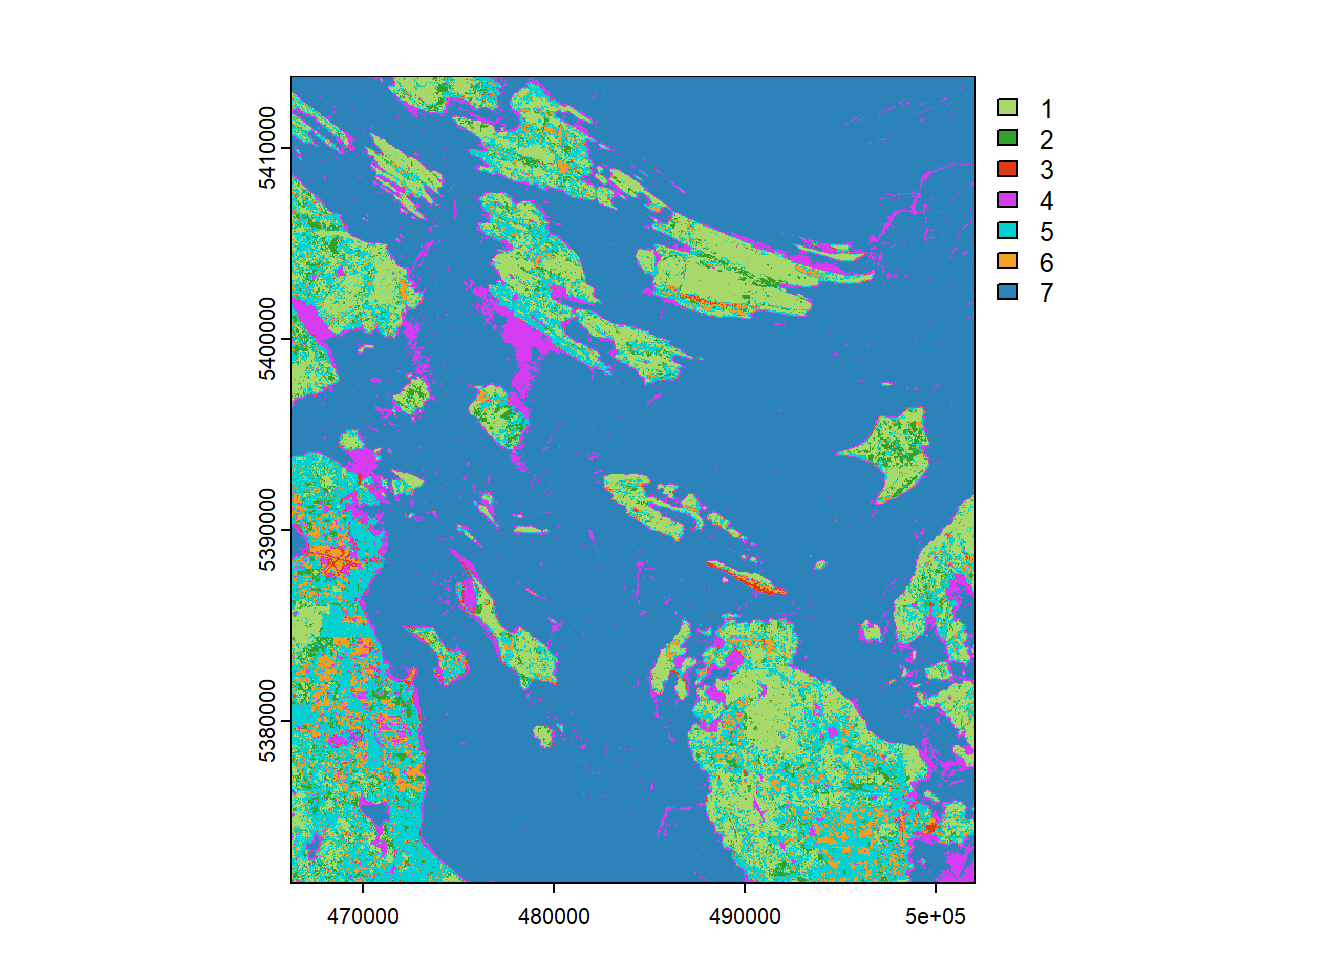
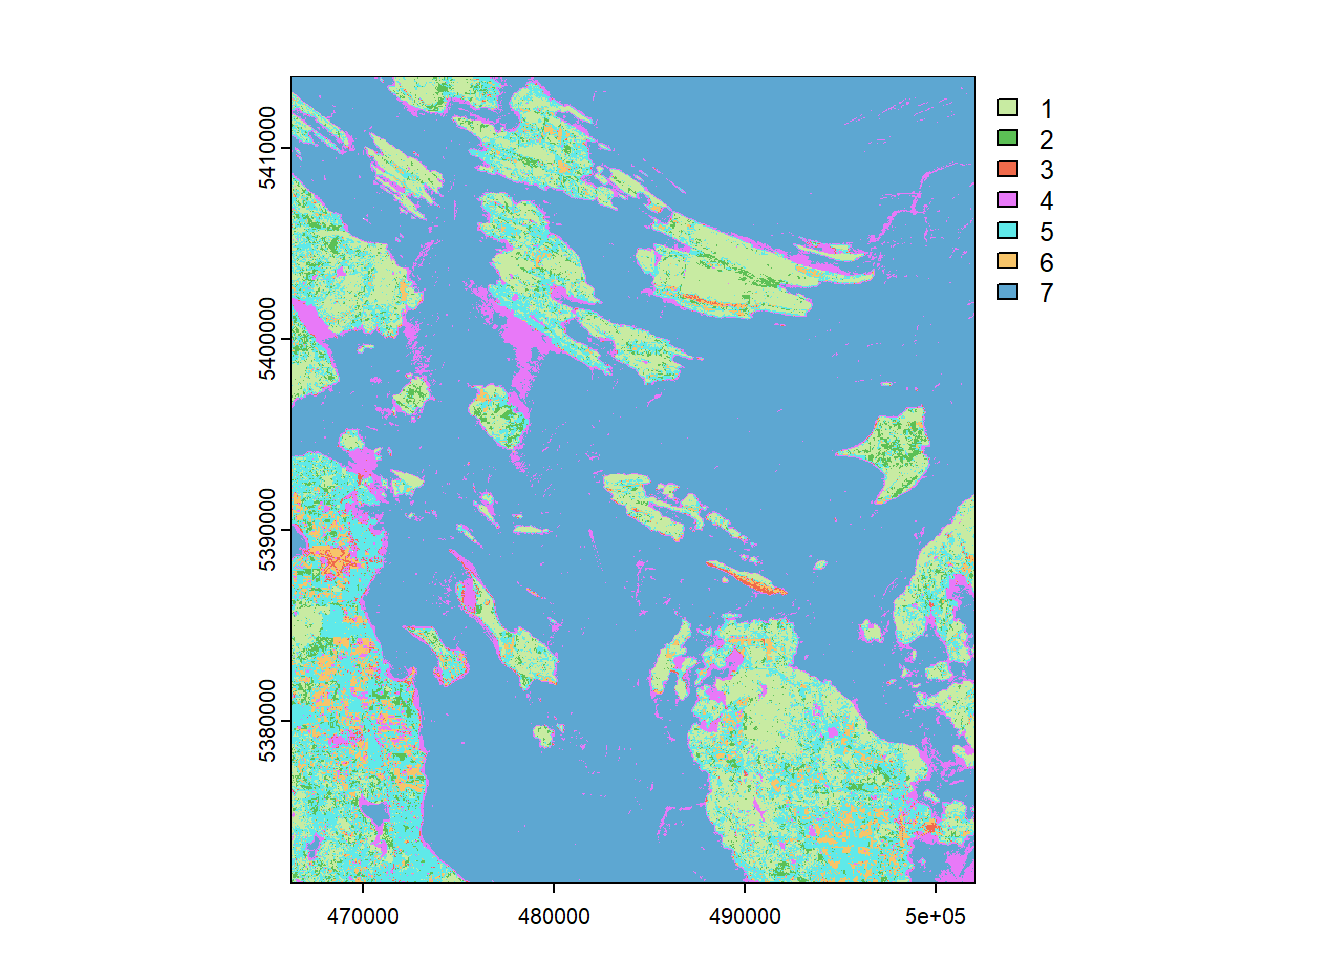
push

diff --git a/Remote Sensing/Supervised Image Classification/Lab5_classification-assign.html b/Remote Sensing/Supervised Image Classification/Lab5_classification-assign.html
@@ -265,18 +265,18 @@ max values  :    1,     1,   1,   1,     1,     1 </code></pre>
 <p>4.4 Extract Training Data for Classification</p>
 <p>Once the training polygons were split, the corresponding pixel values from the Landsat image were extracted for each class in the training and validation sets, to allow the classifier to learn the spectral characteristics of each land cover class.</p>
 <div class="cell">
-<div class="sourceCode cell-code" id="cb11"><pre class="sourceCode r code-with-copy"><code class="sourceCode r"><span id="cb11-1"><a href="#cb11-1" aria-hidden="true" tabindex="-1"></a>poly_set_vals <span class="ot">&lt;-</span> terra<span class="sc">::</span><span class="fu">extract</span>(landsat_image, <span class="fu">vect</span>(poly_set))</span>
+<div class="sourceCode cell-code" id="cb11"><pre class="sourceCode r code-with-copy"><code class="sourceCode r"><span id="cb11-1"><a href="#cb11-1" aria-hidden="true" tabindex="-1"></a>polygon_pixels <span class="ot">&lt;-</span> terra<span class="sc">::</span><span class="fu">extract</span>(landsat_image, <span class="fu">vect</span>(poly_set))</span>
 <span id="cb11-2"><a href="#cb11-2" aria-hidden="true" tabindex="-1"></a></span>
 <span id="cb11-3"><a href="#cb11-3" aria-hidden="true" tabindex="-1"></a><span class="co"># We need to perform an inner_join to retrieve lc_class</span></span>
-<span id="cb11-4"><a href="#cb11-4" aria-hidden="true" tabindex="-1"></a>poly_set_vals <span class="ot">&lt;-</span> <span class="fu">inner_join</span>(poly_set, poly_set_vals) <span class="sc">%&gt;%</span></span>
+<span id="cb11-4"><a href="#cb11-4" aria-hidden="true" tabindex="-1"></a>polygon_pixels <span class="ot">&lt;-</span> <span class="fu">inner_join</span>(poly_set, polygon_pixels) <span class="sc">%&gt;%</span></span>
 <span id="cb11-5"><a href="#cb11-5" aria-hidden="true" tabindex="-1"></a>  <span class="fu">st_drop_geometry</span>()</span>
 <span id="cb11-6"><a href="#cb11-6" aria-hidden="true" tabindex="-1"></a></span>
 <span id="cb11-7"><a href="#cb11-7" aria-hidden="true" tabindex="-1"></a><span class="co"># Calculate the number of pixels per land cover class  </span></span>
-<span id="cb11-8"><a href="#cb11-8" aria-hidden="true" tabindex="-1"></a>poly_stats <span class="ot">&lt;-</span> poly_set_vals <span class="sc">%&gt;%</span> </span>
+<span id="cb11-8"><a href="#cb11-8" aria-hidden="true" tabindex="-1"></a>pixel_statistics <span class="ot">&lt;-</span> polygon_pixels <span class="sc">%&gt;%</span> </span>
 <span id="cb11-9"><a href="#cb11-9" aria-hidden="true" tabindex="-1"></a>  <span class="fu">group_by</span>(set, lc_class) <span class="sc">%&gt;%</span> </span>
 <span id="cb11-10"><a href="#cb11-10" aria-hidden="true" tabindex="-1"></a>  <span class="fu">summarize</span>(<span class="at">n_px =</span> <span class="fu">n</span>())  </span>
 <span id="cb11-11"><a href="#cb11-11" aria-hidden="true" tabindex="-1"></a><span class="co"># Display the class statistics </span></span>
-<span id="cb11-12"><a href="#cb11-12" aria-hidden="true" tabindex="-1"></a>poly_stats </span></code><button title="Copy to Clipboard" class="code-copy-button"><i class="bi"></i></button></pre></div>
+<span id="cb11-12"><a href="#cb11-12" aria-hidden="true" tabindex="-1"></a>pixel_statistics </span></code><button title="Copy to Clipboard" class="code-copy-button"><i class="bi"></i></button></pre></div>
 <div class="cell-output cell-output-stdout">
 <pre><code># A tibble: 14 × 3
 # Groups:   set [2]
@@ -300,11 +300,11 @@ max values  :    1,     1,   1,   1,     1,     1 </code></pre>
 </div>
 <div class="cell">
 <div class="sourceCode cell-code" id="cb13"><pre class="sourceCode r code-with-copy"><code class="sourceCode r"><span id="cb13-1"><a href="#cb13-1" aria-hidden="true" tabindex="-1"></a><span class="co"># Calculate the number of pixels per land cover class  </span></span>
-<span id="cb13-2"><a href="#cb13-2" aria-hidden="true" tabindex="-1"></a>poly_stats <span class="ot">&lt;-</span> poly_set_vals <span class="sc">%&gt;%</span> </span>
+<span id="cb13-2"><a href="#cb13-2" aria-hidden="true" tabindex="-1"></a>pixel_statistics <span class="ot">&lt;-</span> polygon_pixels <span class="sc">%&gt;%</span> </span>
 <span id="cb13-3"><a href="#cb13-3" aria-hidden="true" tabindex="-1"></a>  <span class="fu">group_by</span>(set, lc_class) <span class="sc">%&gt;%</span> </span>
 <span id="cb13-4"><a href="#cb13-4" aria-hidden="true" tabindex="-1"></a>  <span class="fu">summarize</span>(<span class="at">n_px =</span> <span class="fu">n</span>())  </span>
 <span id="cb13-5"><a href="#cb13-5" aria-hidden="true" tabindex="-1"></a><span class="co"># Display the class statistics </span></span>
-<span id="cb13-6"><a href="#cb13-6" aria-hidden="true" tabindex="-1"></a>poly_stats </span></code><button title="Copy to Clipboard" class="code-copy-button"><i class="bi"></i></button></pre></div>
+<span id="cb13-6"><a href="#cb13-6" aria-hidden="true" tabindex="-1"></a>pixel_statistics </span></code><button title="Copy to Clipboard" class="code-copy-button"><i class="bi"></i></button></pre></div>
 <div class="cell-output cell-output-stdout">
 <pre><code># A tibble: 14 × 3
 # Groups:   set [2]
@@ -329,10 +329,10 @@ max values  :    1,     1,   1,   1,     1,     1 </code></pre>
 <p>For ease of analysis, the dataset was reshaped from a wide format (where each band is a separate column) to a long format (where each band is a row with the corresponding reflectance value).</p>
 <div class="cell">
 <div class="sourceCode cell-code" id="cb15"><pre class="sourceCode r code-with-copy"><code class="sourceCode r"><span id="cb15-1"><a href="#cb15-1" aria-hidden="true" tabindex="-1"></a><span class="co"># Reshape the data from wide to long format </span></span>
-<span id="cb15-2"><a href="#cb15-2" aria-hidden="true" tabindex="-1"></a>poly_set_vals_long <span class="ot">&lt;-</span> <span class="fu">pivot_longer</span>(poly_set_vals, blue<span class="sc">:</span>swir2,</span>
+<span id="cb15-2"><a href="#cb15-2" aria-hidden="true" tabindex="-1"></a>polygon_pixels_long <span class="ot">&lt;-</span> <span class="fu">pivot_longer</span>(polygon_pixels, blue<span class="sc">:</span>swir2,</span>
 <span id="cb15-3"><a href="#cb15-3" aria-hidden="true" tabindex="-1"></a>                                   <span class="at">names_to =</span> <span class="st">"band"</span>, <span class="at">values_to =</span> <span class="st">"reflectance"</span>)  </span>
 <span id="cb15-4"><a href="#cb15-4" aria-hidden="true" tabindex="-1"></a><span class="co"># Display the reshaped data </span></span>
-<span id="cb15-5"><a href="#cb15-5" aria-hidden="true" tabindex="-1"></a><span class="fu">head</span>(poly_set_vals_long) </span></code><button title="Copy to Clipboard" class="code-copy-button"><i class="bi"></i></button></pre></div>
+<span id="cb15-5"><a href="#cb15-5" aria-hidden="true" tabindex="-1"></a><span class="fu">head</span>(polygon_pixels_long) </span></code><button title="Copy to Clipboard" class="code-copy-button"><i class="bi"></i></button></pre></div>
 <div class="cell-output cell-output-stdout">
 <pre><code># A tibble: 6 × 5
 # Groups:   lc_class [1]
@@ -349,7 +349,7 @@ max values  :    1,     1,   1,   1,     1,     1 </code></pre>
 <p>The mean, 5th quantile, and 95th quantile of reflectance for each band and land cover class was then calculated to summarize and analyze the spectral characteristics of the different land cover types.</p>
 <div class="cell">
 <div class="sourceCode cell-code" id="cb17"><pre class="sourceCode r code-with-copy"><code class="sourceCode r"><span id="cb17-1"><a href="#cb17-1" aria-hidden="true" tabindex="-1"></a><span class="co"># Calculate spectral signatures for each land cover class and band </span></span>
-<span id="cb17-2"><a href="#cb17-2" aria-hidden="true" tabindex="-1"></a>spectral_sign <span class="ot">&lt;-</span> poly_set_vals_long <span class="sc">%&gt;%</span> </span>
+<span id="cb17-2"><a href="#cb17-2" aria-hidden="true" tabindex="-1"></a>spectral_sign <span class="ot">&lt;-</span> polygon_pixels_long <span class="sc">%&gt;%</span> </span>
 <span id="cb17-3"><a href="#cb17-3" aria-hidden="true" tabindex="-1"></a>  <span class="fu">group_by</span>(lc_class, band) <span class="sc">%&gt;%</span>  </span>
 <span id="cb17-4"><a href="#cb17-4" aria-hidden="true" tabindex="-1"></a>  <span class="fu">summarize</span>(<span class="at">r_mean =</span> <span class="fu">mean</span>(reflectance, <span class="at">na.rm =</span> <span class="cn">TRUE</span>),</span>
 <span id="cb17-5"><a href="#cb17-5" aria-hidden="true" tabindex="-1"></a>            <span class="at">r_q05 =</span> <span class="fu">quantile</span>(reflectance, <span class="fl">0.05</span>, <span class="at">na.rm =</span> <span class="cn">TRUE</span>),</span>
@@ -413,7 +413,7 @@ max values  :    1,     1,   1,   1,     1,     1 </code></pre>
 <span id="cb20-11"><a href="#cb20-11" aria-hidden="true" tabindex="-1"></a><span class="co"># Write the classified map to a TIFF file </span></span>
 <span id="cb20-12"><a href="#cb20-12" aria-hidden="true" tabindex="-1"></a><span class="co">#terra::writeRaster(classified_map, filename = "outputs/classified_map.tif", overwrite = TRUE)  </span></span>
 <span id="cb20-13"><a href="#cb20-13" aria-hidden="true" tabindex="-1"></a><span class="co"># Plot the classified map </span></span>
-<span id="cb20-14"><a href="#cb20-14" aria-hidden="true" tabindex="-1"></a>terra<span class="sc">::</span><span class="fu">plot</span>(classified_map, <span class="at">col =</span> <span class="fu">c</span>(<span class="st">'#A6D96A'</span>,<span class="st">'#33A02C'</span>,<span class="st">'#DE3B13'</span>,<span class="st">'#D63CF1'</span>,<span class="st">'#00D2D2'</span>,<span class="st">'#F1A026'</span>,<span class="st">'#2B83BA'</span>)) </span></code><button title="Copy to Clipboard" class="code-copy-button"><i class="bi"></i></button></pre></div>
+<span id="cb20-14"><a href="#cb20-14" aria-hidden="true" tabindex="-1"></a>terra<span class="sc">::</span><span class="fu">plot</span>(classified_map, <span class="at">col =</span> <span class="fu">c</span>(<span class="st">'#C8EBA2'</span>,<span class="st">'#5CC055'</span>,<span class="st">'#F06A4B'</span>,<span class="st">'#E879F8'</span>,<span class="st">'#5FE9E9'</span>,<span class="st">'#F7C469'</span>,<span class="st">'#5DA7D2'</span>)) </span></code><button title="Copy to Clipboard" class="code-copy-button"><i class="bi"></i></button></pre></div>
 <div class="cell-output-display">
 <div>
 <figure class="figure">

diff --git a/Posts/Diverse Knowledge Systems.html b/Posts/Diverse Knowledge Systems.html
@@ -75,8 +75,9 @@ ul.task-list li input[type="checkbox"] {
 </header>
 
 
-<section id="beyond-binaries-why-diverse-knowledge-systems-matter-in-environmental-management" class="level5" style="text-align: justify">
-<h5 class="anchored" data-anchor-id="beyond-binaries-why-diverse-knowledge-systems-matter-in-environmental-management">Beyond Binaries: Why Diverse Knowledge Systems matter in Environmental Management</h5>
+<section id="beyond-binaries-why-diverse-knowledge-systems-matter-in-environmental-management" class="level5">
+<h5 class="anchored" data-anchor-id="beyond-binaries-why-diverse-knowledge-systems-matter-in-environmental-management">Beyond Binaries: Why Diverse Knowledge Systems Matter in Environmental Management</h5>
+<div style="text-align: justify">
 <p>In an increasingly interconnected world, understanding and appreciating different cultural perspectives and worldviews is not just a nice-to-have, it’s a necessity. This is especially true in the field of sustainable natural resources, where decisions often have profound social and ethical implications. As a student in the field of Geomatics for Environmental Management (MGEM), I have been reflecting on why learning to work with diverse knowledge systems is so crucial.</p>
 <p>At its heart, engaging with diverse knowledge systems challenges our own assumptions, broadens our horizons, and helps us develop empathy for others. It is about recognizing that there is not one “right” way of seeing the world, or one “best” approach to solving complex problems. This is particularly relevant in my future career, where I’ll likely be working with diverse teams, international partners, and local communities across the globe.</p>
 <p>The ability to navigate diverse teams and negotiate with international partners begins with cultural sensitivity and understanding. Different cultural perspectives influence communication styles, negotiation tactics, and even perceptions of what constitutes a “successful” outcome. By understanding these differences, we can avoid misunderstandings, build trust, and foster more effective collaboration.</p>
@@ -84,6 +85,7 @@ ul.task-list li input[type="checkbox"] {
 <p>Beyond cultural sensitivity, working with diverse knowledge systems fosters interdisciplinary collaboration. Environmental management often requires bringing together experts from various fields – geographers, ecologists, sociologists, remote sensing specialists, and more. Each discipline brings its own unique perspective, methodologies, and assumptions. Understanding these differences is essential for integrating knowledge, fostering innovation, and developing holistic solutions.</p>
 <p>Finally, engaging with diverse knowledge systems compels us to confront ethical considerations in environmental management. Whose knowledge counts? Who benefits, and who bears the costs? How do we ensure that decisions are fair, just, and equitable? By actively seeking out and valuing diverse perspectives, we can challenge power imbalances, promote inclusivity, and strive for more just and sustainable solutions.</p>
 <p>As I delve deeper into the study of Geomatics for Environmental Management, I’m particularly interested in exploring how interdisciplinary knowledge can contribute to a more comprehensive understanding of environmental issues, the ethical implications of knowledge production, the strengths and limitations of Western scientific methods, the potential of indigenous knowledge systems to inform sustainable resource management, and the dynamics of global knowledge systems. By embracing this diversity, we can move beyond simplistic binaries, challenge our own assumptions, and unlock new pathways toward a more sustainable and equitable future.</p>
+</div>
 </section>
 
 </main>
